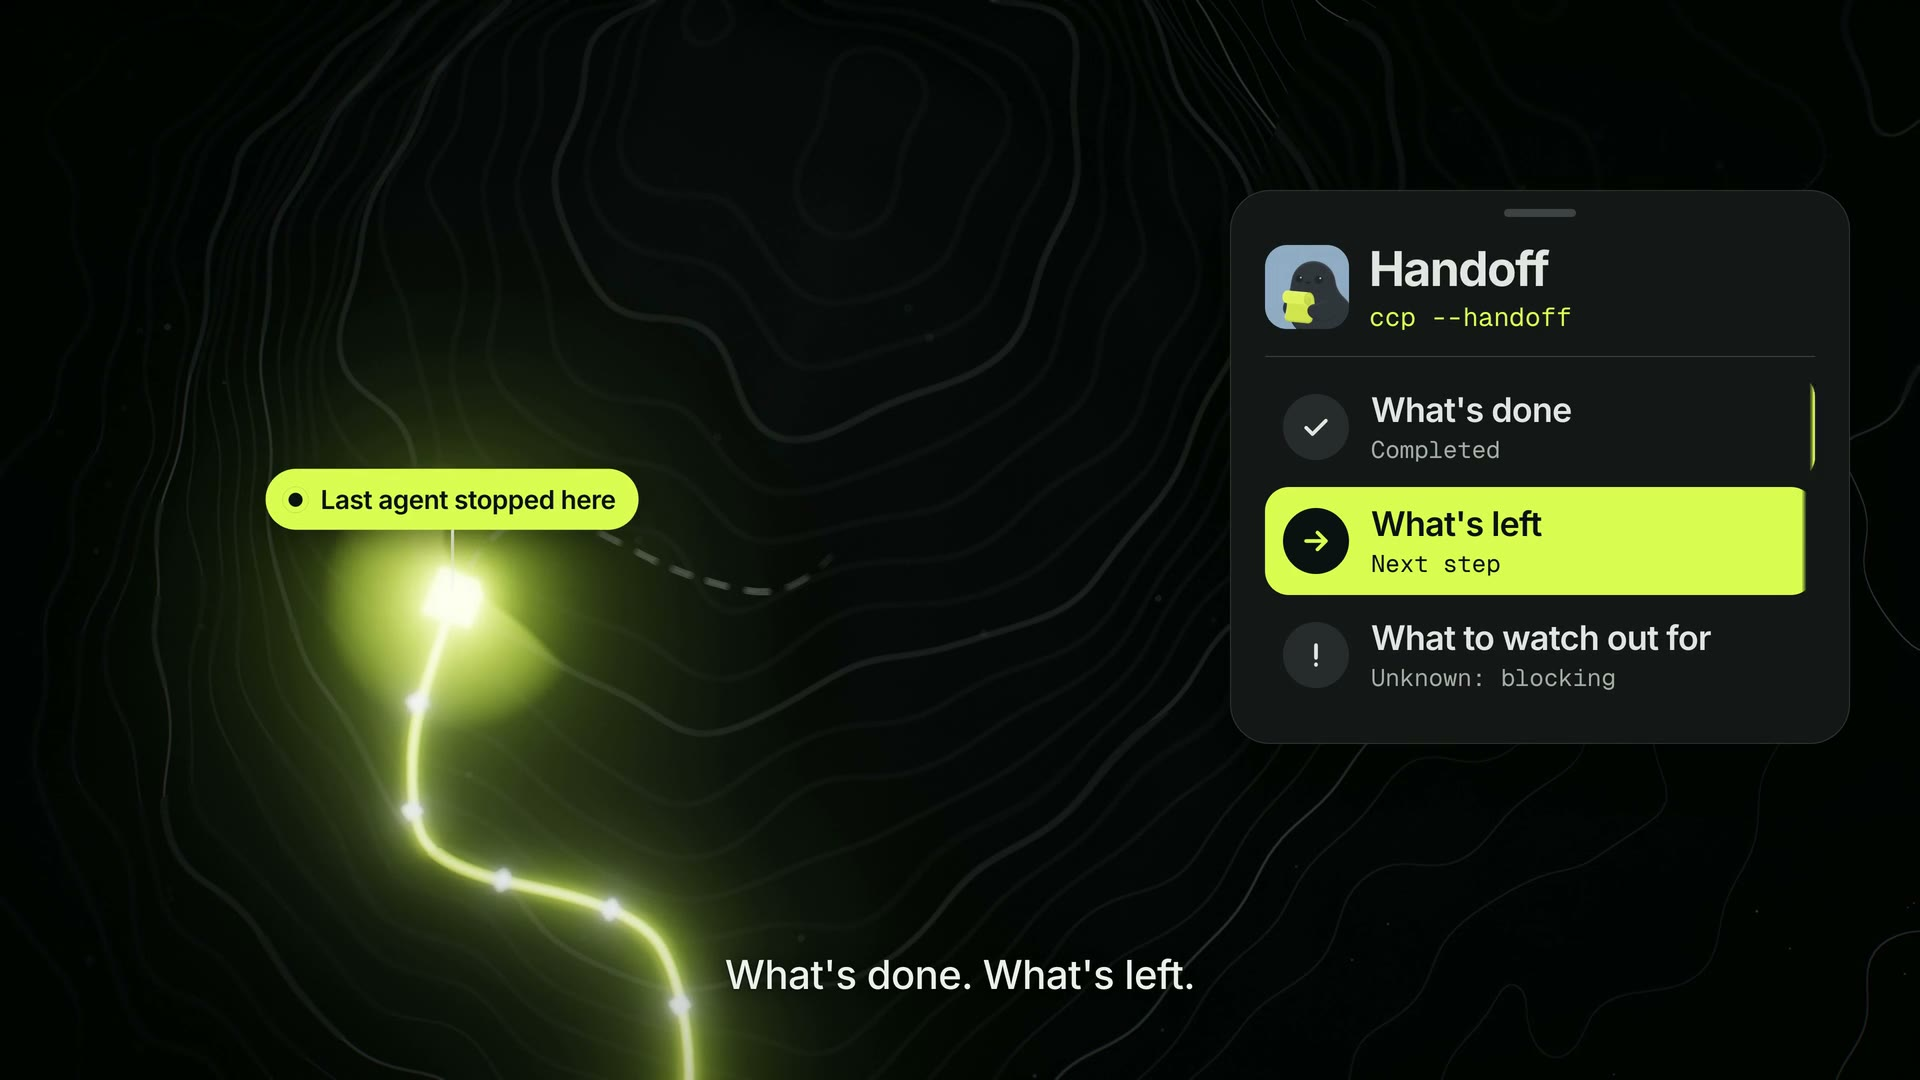
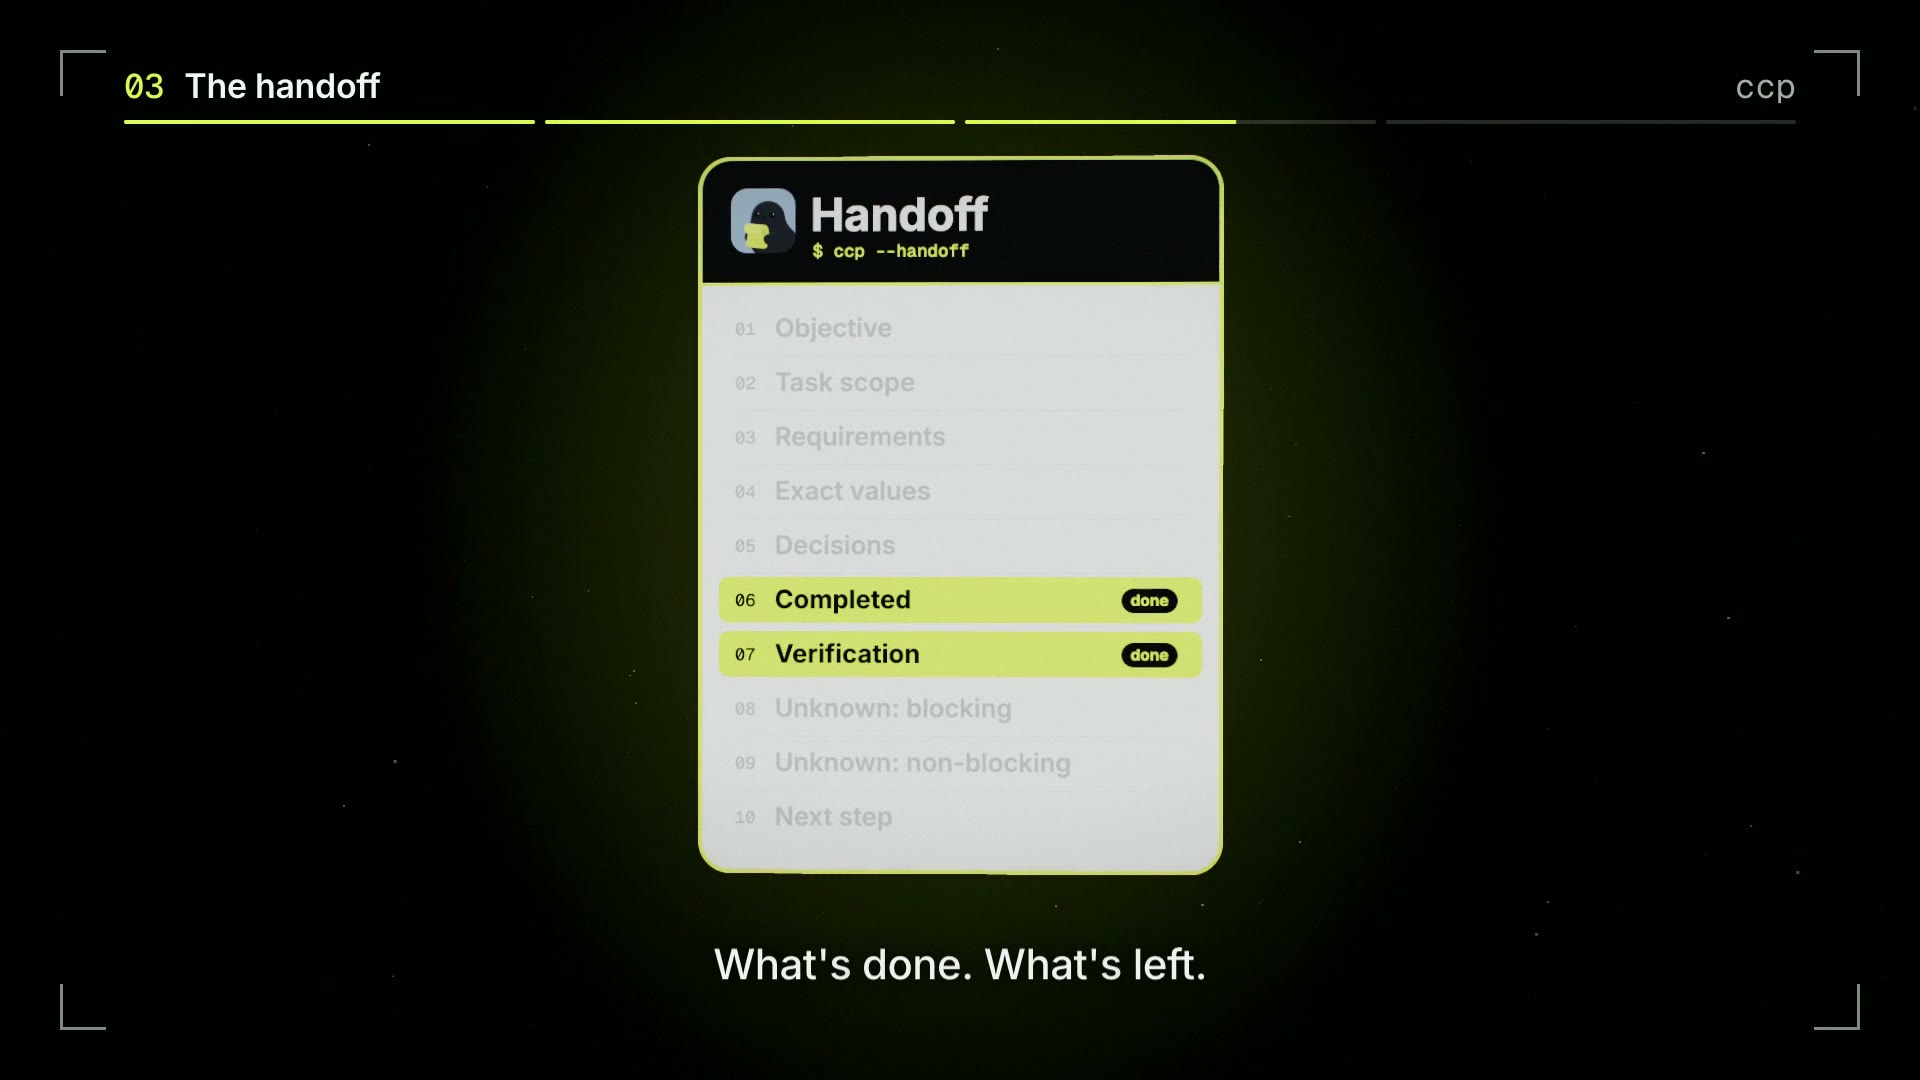
README: use the Map film (v6) for poster, images and film link

diff --git a/README.md b/README.md
@@ -1,5 +1,5 @@
 <p align="center">
-  <img src="assets/poster.jpg" alt="Context Compiler leaves the rope." width="100%">
+  <img src="assets/poster.jpg" alt="Context Compiler keeps the lights on." width="100%">
 </p>
 
 <h1 align="center">Context Compiler</h1>
@@ -21,9 +21,9 @@
 ## Why
 
 A long coding session builds up knowledge the repository never keeps: what you asked for, what failed, the decisions made on the way, the exact values that mattered, what was verified and what is still open.
-When the session ends, or is compacted, or hands over to another agent, that knowledge is gone. The next agent sees what was built, not why, and starts again from the bottom.
+Every time your agent works, it builds a map in its head. When the session ends, is compacted, or hands over to another agent, the map goes dark, and the next agent starts in the dark.
 
-Context Compiler is the fixed rope. It reads the session that ended and writes down the route, so the next agent picks up from exactly where the last one stopped.
+Context Compiler keeps the lights on. It reads the session that ended and compiles the map into a handoff, so the next agent sees the map and picks up right where the last one stopped.
 
 <p align="center"><img src="assets/handoff.jpg" alt="The handoff: what's done, what's left, what to watch out for" width="100%"></p>
 
@@ -140,8 +140,8 @@ npm test
 
 ## The film
 
-A short film explains the idea in 40 seconds: *every session is a climb, and Context Compiler leaves the rope.*
-Vertical and horizontal versions are attached to the [latest release](https://github.com/swethankreddy/context-compiler/releases/latest).
+A short film explains the idea in under 40 seconds: *every agent builds a map in its head; Context Compiler keeps the lights on.*
+Watch it on the [latest release](https://github.com/swethankreddy/context-compiler/releases/latest) (`context-compiler-film.mp4`, 1920×1080).
 
 ## License
 
